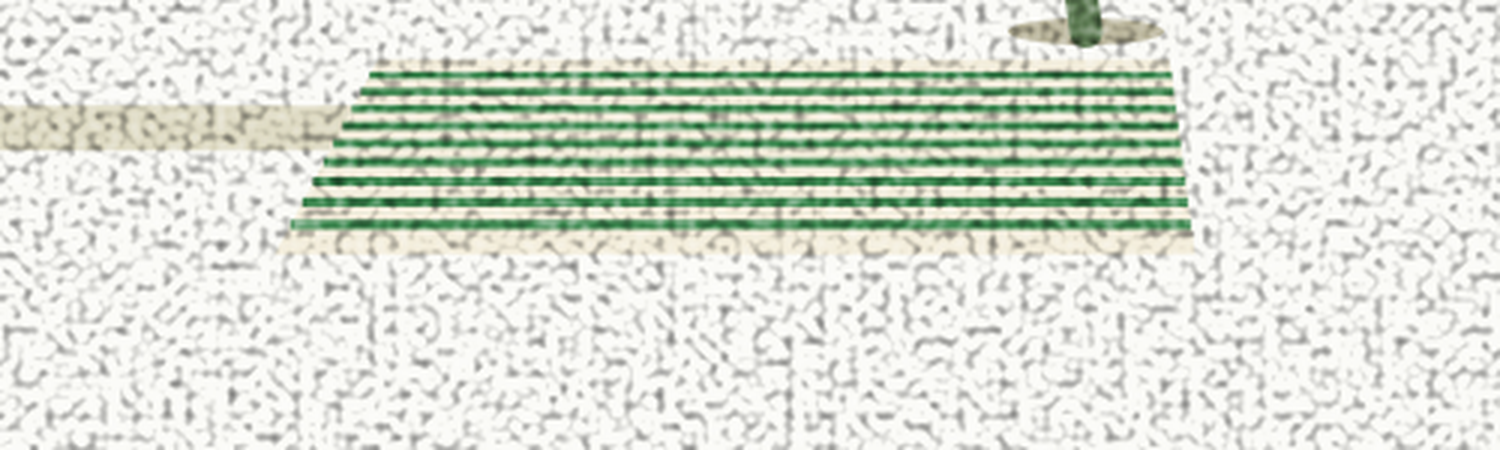
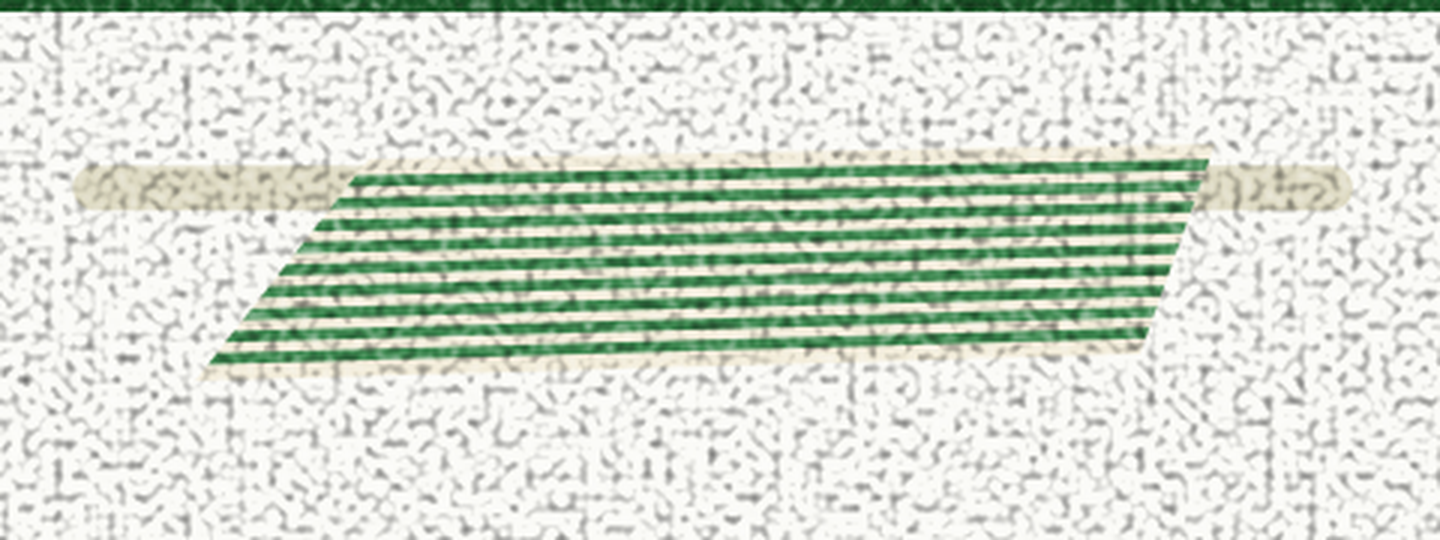
Serviette : la perspective relevée coin par coin, plus aucun réglage à l'œil
Les quatre coins du tapis sont relevés sur la référence — près-gauche
(722, 836), près-droit (938, 830), loin-droit (955, 782), loin-gauche
(762, 786) sur 1232 × 928 — et rapportés au cadre. Ils disent tout : le
bord près fait 216 px et le bord loin 193, les extrémités sont obliques
(39 degrés à gauche, plus raide à droite), la hauteur passe de 94 px à
gauche à 74 à droite. La serviette ne fuit pas vers le fond de face : elle
fuit vers la droite.

Chaque rayure est un quadrilatère plein interpolé entre le bord près et le
bord loin — la rayure au paramètre v va de lerp(A, D, v) à lerp(B, C, v),
et ses deux côtés suivent la même interpolation. La convergence des
rayures, leur resserrement et leur amincissement ne sont plus des réglages :
ils découlent des quatre coins mesurés.

Les deux essais précédents (biais seul, puis fuite et compression ajustées
à l'œil) sont remplacés ; la leçon rejoint celle du découpage en fractions :
donner la géométrie, pas ses conséquences.

Claude-Session: https://claude.ai/code/session_015un2t2xRvThoKm9jAu6CXK

diff --git a/illustration/personnages.py b/illustration/personnages.py
@@ -196,60 +196,59 @@ def serviette_rayee_corps(dx, dy):
     return u''
 
 
-def serviette_rayee(ox, oy, k=1.3, indent=4):
+def serviette_rayee(ox, oy, k=1.0, indent=4):
     u"""
-    La serviette rayee, regardee de pres cette fois.
+    La serviette rayee, RELEVEE coin par coin - plus aucun reglage a l'oeil.
 
-    CE QUE MONTRE LE MODELE
-      Des rayures CONTINUES, FINES et SERREES : une dizaine sur la hauteur
-      du tapis, a trame presque egale - autant de vert que de blanc. De
-      loin, le tapis lit VERT RAYE ; ma version a tirets espaces sur fond
-      creme lisait creme taponne de vert, rien a voir.
+    LE RELEVE (reference de 1232 x 928, rapporte a nos 1800 x 1350)
+        pres-gauche  A (722, 836)      loin-gauche  D (762, 786)
+        pres-droit   B (938, 830)      loin-droit   C (955, 782)
 
-      Et le tapis n'est pas un rectangle : un leger BIAIS en
-      parallelogramme - le bord haut decale vers la droite - le couche au
-      sol sans vraie perspective, comme la serviette de la premiere
-      reference etait inclinee d'un degre et demi.
+      Le bord pres fait 216 px, le bord loin 193 : la serviette FUIT.
+      L'extremite gauche est inclinee de 39 degres, la droite plus raide :
+      elle fuit VERS LA DROITE, pas vers le fond de face. Et sa hauteur
+      passe de 94 px a gauche a 74 a droite : les rayures convergent.
 
-    RELEVE (1232 x 928) : ~210 x 44 px, soit 0.17 x 0.047 du cadre ;
-    une dizaine de rayures -> un pas d'environ 4.4 px la-bas, 6.5 ici.
+    LA CONSTRUCTION QUI EN DECOULE
+      Tout est interpole entre le bord pres A->B et le bord loin D->C :
+      la rayure au parametre v va de lerp(A, D, v) a lerp(B, C, v), et
+      chaque rayure est un QUADRILATERE plein - pas un trait a epaisseur
+      constante - dont les cotes suivent la meme interpolation. La
+      convergence, le resserrement et l'amincissement ne sont plus des
+      reglages : ils DECOULENT des quatre coins mesures. C'est la meme
+      lecon que le decoupage en fractions - on donne la geometrie, pas
+      ses consequences.
+
+    ox, oy : le centre du tapis. Dans la scene : (0.685 W, 0.8715 H),
+    la position du releve.
     """
     e = " " * indent
-    L2, H = 118.0, 50.0          # demi-longueur, hauteur
-    BIAIS = 10.0                 # le decalage du bord loin, vers la droite
-    FUITE = 0.86                 # le bord loin fait 0.86 fois le bord pres
+    # les offsets des coins par rapport au centre, deja a l'echelle 1800
+    A = (ox - 178.0 * k, oy + 40.5 * k)
+    B = (ox + 137.0 * k, oy + 31.5 * k)
+    C = (ox + 162.0 * k, oy - 38.5 * k)
+    D = (ox - 120.0 * k, oy - 33.5 * k)
 
-    # LA PERSPECTIVE, en deux effets qui vont ensemble :
-    #   - le bord loin est PLUS COURT (fuite) et decale (biais) ;
-    #   - les rayures se RESSERRENT vers le fond - l'espacement decroit,
-    #     et le trait s'amincit d'autant.
-    # L'un sans l'autre se voit : un trapeze aux rayures regulieres a l'air
-    # peint, des rayures resserrees sur un rectangle ont l'air d'un degrade.
-    def P(x, y):
-        t = -y / H                       # 0 devant, 1 au fond
-        return (ox + (x * (1.0 - (1.0 - FUITE) * t) + BIAIS * t) * k,
-                oy + y * k)
+    def L(v):
+        return (A[0] + (D[0] - A[0]) * v, A[1] + (D[1] - A[1]) * v)
 
-    coins = [P(-L2, -H), P(L2, -H), P(L2, 0), P(-L2, 0)]
-    out = [u'<path d="M%.1f %.1f L%.1f %.1f L%.1f %.1f L%.1f %.1f Z" '
-           u'fill="%s"/>'
-           % (coins[0][0], coins[0][1], coins[1][0], coins[1][1],
-              coins[2][0], coins[2][1], coins[3][0], coins[3][1], CREME)]
+    def R(v):
+        return (B[0] + (C[0] - B[0]) * v, B[1] + (C[1] - B[1]) * v)
 
-    # NEUF rayures continues, trame egale vert/blanc, RESSERREES vers le
-    # fond : la position suit u^0.82 - l'ecart entre deux rayures diminue
-    # a mesure qu'on s'eloigne - et le trait s'amincit du meme facteur.
+    def quad(p1, p2, p3, p4, couleur):
+        return (u'<path d="M%.1f %.1f L%.1f %.1f L%.1f %.1f L%.1f %.1f Z" '
+                u'fill="%s"/>' % (p1[0], p1[1], p2[0], p2[1],
+                                  p3[0], p3[1], p4[0], p4[1], couleur))
+
+    out = [quad(A, B, C, D, CREME)]
+
+    # neuf rayures, trame egale : chaque rayure couvre 52 %% de son pas.
     n = 9
-    pas = H / (n + 1.0)
+    demi = 0.52 / (2.0 * (n + 1))
     for i in range(1, n + 1):
-        u = i / (n + 1.0)
-        y = -H * ((1.0 - u) ** 0.82)     # u=1 -> bord pres, serre au fond
-        t = -y / H
-        A, Bp = P(-L2, y), P(L2, y)
-        out.append(u'<path d="M%.1f %.1f L%.1f %.1f" stroke="%s" '
-                   u'stroke-width="%.1f" fill="none"/>'
-                   % (A[0], A[1], Bp[0], Bp[1], VERT_OBJET,
-                      pas * 0.52 * (1.0 - 0.30 * t) * k))
+        v = i / float(n + 1)
+        out.append(quad(L(v - demi), R(v - demi), R(v + demi), L(v + demi),
+                        VERT_OBJET))
 
     return u"%s<g inkscape:label=\"Serviette rayee\">\n%s\n%s</g>" % (
         e, "\n".join(u"%s  %s" % (e, x) for x in out), e)

diff --git a/illustration/construire.py b/illustration/construire.py
@@ -580,7 +580,7 @@ SVG = u"""<svg xmlns="http://www.w3.org/2000/svg"
            PERSONNAGES=(personnages.engendrer(LARGEUR, HAUTEUR)
                         if AVEC_PERSONNAGES
                         else (personnages.serviette_rayee(
-                                  0.775 * LARGEUR, 0.885 * HAUTEUR, 1.3, 2)
+                                  0.685 * LARGEUR, 0.8715 * HAUTEUR, 1.0, 2)
                               if AVEC_SERVIETTE_RAYEE
                               else '  <!-- personnages retires -->')),
            HERBE=(herbe.engendrer(LARGEUR, HAUTEUR, PART_HERBE)[0]

diff --git a/illustration/METHODE.md b/illustration/METHODE.md
@@ -68,7 +68,7 @@ une fois l'image sous les yeux.
 | **Serviette** | un **rectangle** de 0,40 × 0,15 du cadre, incliné de 1,5° à peine, **pourtour blanc extérieur**. Aucune fuite : l'image est plate. |
 | **Placement** | parasol ancré à (0,105 W ; 0,312 H) — **juste sous l'horizon, toile dans le ciel**. Serviette centrée à (0,263 W ; 0,414 H). |
 | **Haie** (2ᵉ référence) | masse pleine, ciel **54 %**, haie **27 %**, sable **19 %**. Touffes de **12 à 22 px** sur 1800 — 3,3 fois plus petites que l'ancien buisson. |
-| **Serviette rayée** (5ᵉ référence) | rayures **continues, fines et serrées** : 9 traits verts, trame égale vert/blanc. **En perspective** : bord loin à 0,86 du bord près + biais, rayures resserrées vers le fond (position en u^0,82) et traits amincis d'autant. Les deux effets vont ensemble : un trapèze aux rayures régulières a l'air peint, des rayures resserrées sur un rectangle ont l'air d'un dégradé. |
+| **Serviette rayée** (5ᵉ référence) | **relevée coin par coin** : près-gauche (722, 836), près-droit (938, 830), loin-droit (955, 782), loin-gauche (762, 786) sur 1232×928. Elle fuit **vers la droite** — extrémités obliques (39°), hauteur 94 px à gauche contre 74 à droite. Chaque rayure est un **quadrilatère interpolé** entre bord près et bord loin : convergence, resserrement et amincissement **découlent** des coins, ce ne sont pas des réglages. |
 | **Verge + coins d'herbe** | construits sur un contresens (« le vert au sol » désignait la serviette), **éteints** (`AVEC_SOL_VERT = False`) mais conservés dans `herbe.sol_vert()`. |
 | **Herbe pleine largeur** (3ᵉ référence) | retirée : elle fermait l'image comme un muret. `AVEC_HERBE`. |
 | **Personnages** (5ᵉ référence) | des **silhouettes** : une couleur corail, aucun visage, un accent par figure (short, haut clair). Toute la lecture est dans la **posture**. Membres fuselés + lissés, ballon en croissants par booléens, serviette rayée en bandes pleines. |
@@ -200,6 +200,12 @@ bâton.
 0,3–0,6 fois la bande, espacés de 9 px — chaque dent lisible une à une. La
 référence fait court (≈ 0,1–0,25 de la bande) et dense (≈ 4,6 px). C'est la
 proximité des brins qui fait la matière, pas leur taille.
+
+**Une perspective se relève coin par coin, elle ne s'ajuste pas par
+paramètres.** Trois essais de perspective sur la serviette (biais seul, puis
+fuite + compression réglées à l'œil) avant de relever les quatre coins du
+modèle et d'interpoler tout le reste entre eux. Donner la géométrie, pas ses
+conséquences — comme le découpage en fractions.
 
 **Une trame se relève, elle ne s'interprète pas.** La serviette a été faite
 trois fois : bandes vertes pleines (tapis à moitié vert), puis tirets épars
